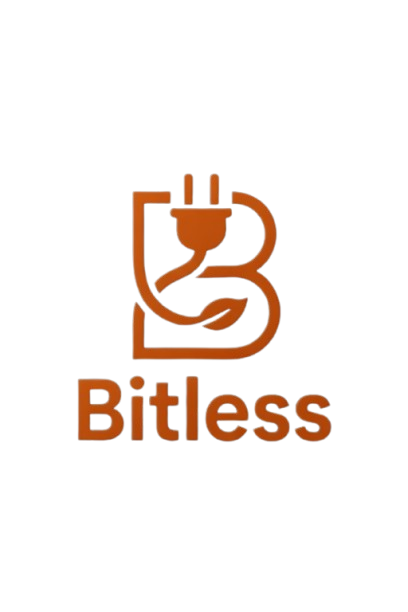
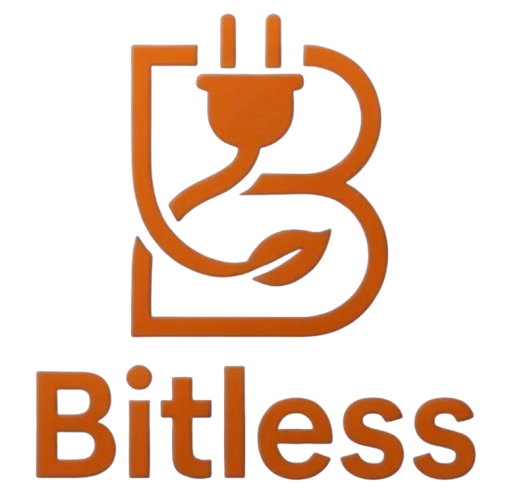
Swap to chunkier logo2 and resize to h-20

Changed region(s): [[0.0588, 0.0304, 0.9412, 0.9736]]

diff --git a/src/app/App.tsx b/src/app/App.tsx
@@ -50,7 +50,7 @@ function App() {
 
             {/* Centre logo */}
             <Link to="/" className="absolute left-1/2 -translate-x-1/2">
-              <img src={bitlessChess} alt="Bitless" className="h-28 w-auto dark:brightness-90 animate-logo-pulse" />
+              <img src={bitlessChess} alt="Bitless" className="h-20 w-auto dark:brightness-90 animate-logo-pulse" />
             </Link>
 
             {/* Right side — hamburger menu */}
